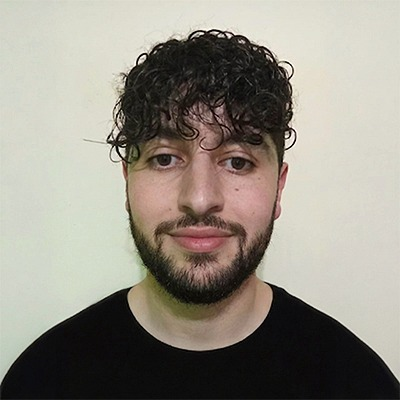
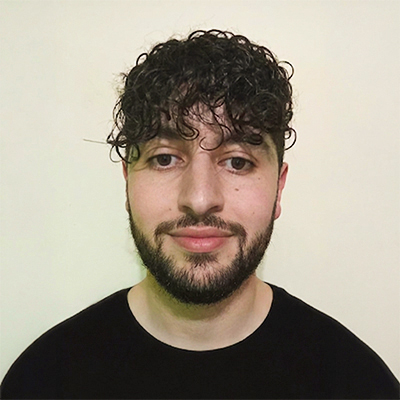
Update About photo (Foto CV 2026) and cache-bust v7
Replace assets/images/about/tomi.jpg with Drive source 1JQge7o2YtH2V8aR81g60gEZh_Kg1u0QD.

diff --git a/index.html b/index.html
@@ -624,7 +624,7 @@
           <span class="about__photo-corner about__photo-corner--tr" aria-hidden="true"></span>
           <span class="about__photo-corner about__photo-corner--bl" aria-hidden="true"></span>
           <span class="about__photo-corner about__photo-corner--br" aria-hidden="true"></span>
-          <img class="about__photo" src="assets/images/about/tomi.jpg?v=6" alt="Tomi Zárate" width="400" height="400" loading="lazy">
+          <img class="about__photo" src="assets/images/about/tomi.jpg?v=7" alt="Tomi Zárate" width="400" height="400" loading="lazy">
         </div>
         <div class="about__decor" aria-hidden="true"></div>
       </div>
